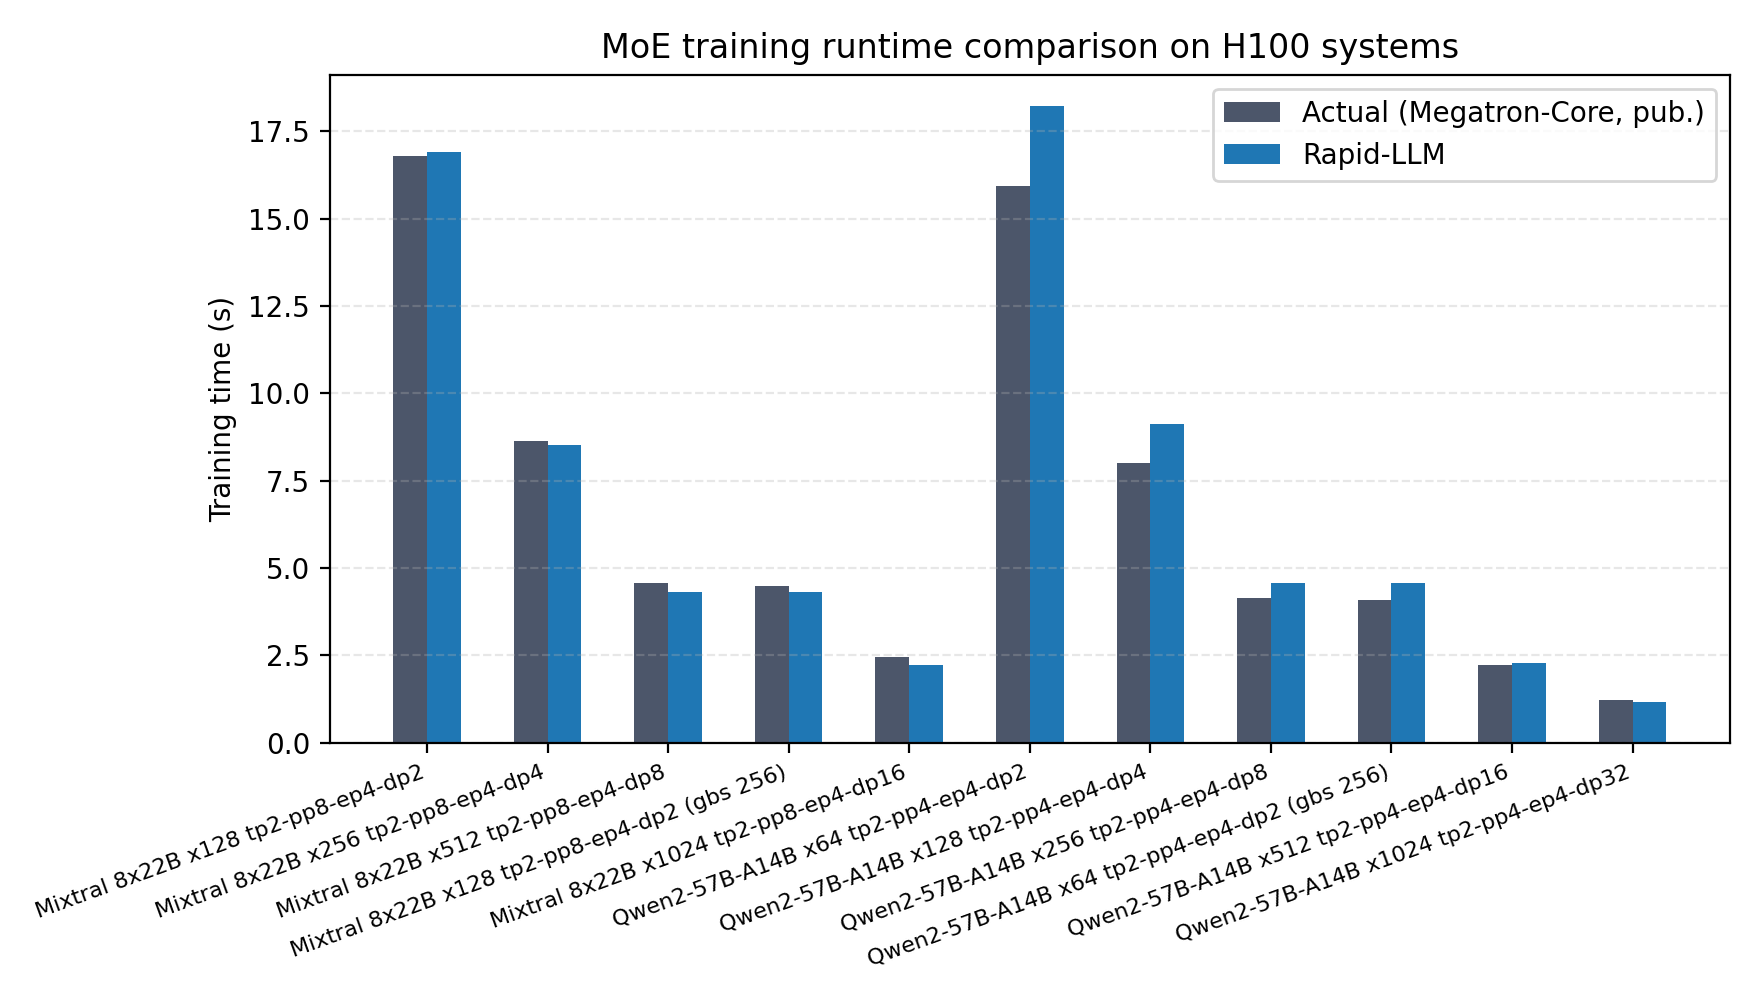
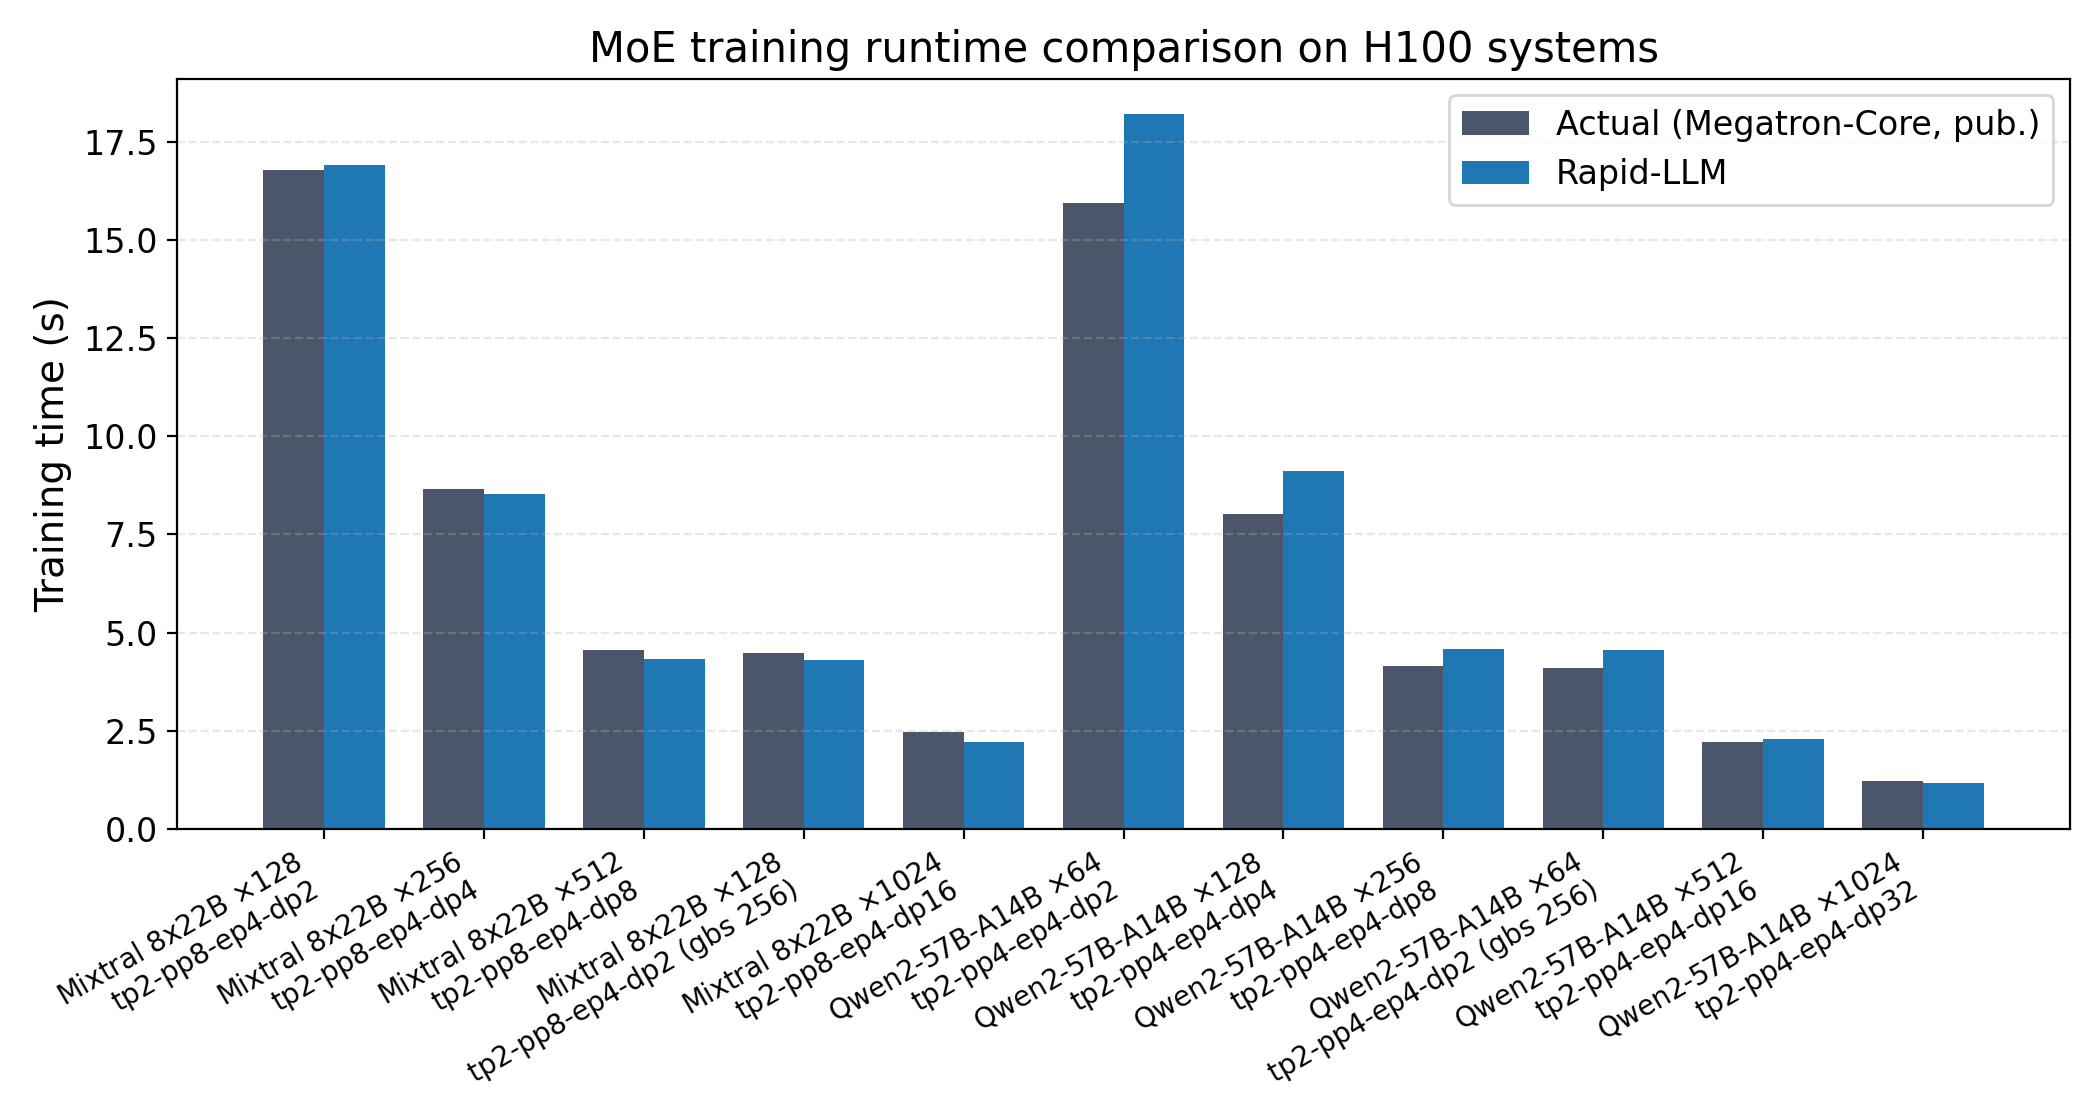
MoE train figure regenerated with print-size fonts (data-identical: cache c0.850_d0.80_n0.80 + published-MFU refs, MAPE 7.06%)

diff --git a/validation_scripts/plot_moe_train_comparison.py b/validation_scripts/plot_moe_train_comparison.py
@@ -1,0 +1,77 @@
+#!/usr/bin/env python3
+"""MoE training validation figure: Actual (Megatron-Core, published) vs Rapid-LLM.
+
+Rapid-LLM values: canonical extended-roofline runs from
+device_testbench/H100_SXM5_opmodel/runs.json at factor key c0.850_d0.80_n0.80
+(H100 residual compute 0.85, global merged mem/net utilization 0.80, 6us launch).
+
+Reference times derive from the published MFU of the MCore (non-folding) rows of
+arXiv:2504.14960 (Tables 1/3/4) via
+    t_ref = FLOPs_per_token * GBS * seq / (N_gpus * 989.5e12 * MFU)
+with seq_len 4096 and exact FLOPs/token constants (3x forward):
+Mixtral 8x22B 2.5067e11, Qwen2-57B-A14B 8.7158e10.
+Published MFU: Mixtral 49.4/48.0/45.5/42.3% at 128/256/512/1024 GPUs (GBS 1024)
+and 46.3% at 128 GPUs (GBS 256); Qwen2 36.2/36.0/34.8/32.5/29.8% at
+64/128/256/512/1024 GPUs (GBS 1024) and 35.3% at 64 GPUs (GBS 256).
+"""
+import json
+from pathlib import Path
+
+import matplotlib
+
+matplotlib.use("Agg")
+import matplotlib.pyplot as plt
+
+SCRIPT_DIR = Path(__file__).resolve().parent
+CACHE = SCRIPT_DIR / "device_testbench" / "H100_SXM5_opmodel" / "runs.json"
+FACTOR_KEY = "c0.850_d0.80_n0.80"
+OUT = SCRIPT_DIR.parent / "output" / "validation" / "paper" / "moe_train_comparison.png"
+
+# (cache case key, display label, t_ref_s)
+CASES = [
+    ("megatron:mixtral8x22b_g128", "Mixtral 8x22B $\\times$128\ntp2-pp8-ep4-dp2", 16.804),
+    ("megatron:mixtral8x22b_g256", "Mixtral 8x22B $\\times$256\ntp2-pp8-ep4-dp4", 8.647),
+    ("megatron:mixtral8x22b_g512", "Mixtral 8x22B $\\times$512\ntp2-pp8-ep4-dp8", 4.561),
+    ("megatron:mixtral8x22b_g128_gbs256", "Mixtral 8x22B $\\times$128\ntp2-pp8-ep4-dp2 (gbs 256)", 4.482),
+    ("megatron:mixtral8x22b_g1024", "Mixtral 8x22B $\\times$1024\ntp2-pp8-ep4-dp16", 2.453),
+    ("megatron:qwen2_57b_a14b_g64", "Qwen2-57B-A14B $\\times$64\ntp2-pp4-ep4-dp2", 15.947),
+    ("megatron:qwen2_57b_a14b_g128", "Qwen2-57B-A14B $\\times$128\ntp2-pp4-ep4-dp4", 8.018),
+    ("megatron:qwen2_57b_a14b_g256", "Qwen2-57B-A14B $\\times$256\ntp2-pp4-ep4-dp8", 4.147),
+    ("megatron:qwen2_57b_a14b_g64_gbs256", "Qwen2-57B-A14B $\\times$64\ntp2-pp4-ep4-dp2 (gbs 256)", 4.088),
+    ("megatron:qwen2_57b_a14b_g512", "Qwen2-57B-A14B $\\times$512\ntp2-pp4-ep4-dp16", 2.220),
+    ("megatron:qwen2_57b_a14b_g1024", "Qwen2-57B-A14B $\\times$1024\ntp2-pp4-ep4-dp32", 1.211),
+]
+
+
+def main() -> None:
+    cache = json.loads(CACHE.read_text())
+    labels, refs, preds = [], [], []
+    for key, label, t_ref in CASES:
+        pred = cache[key][FACTOR_KEY]
+        labels.append(label)
+        refs.append(t_ref)
+        preds.append(float(pred))
+    errs = [abs(p - a) / a * 100 for a, p in zip(refs, preds)]
+    print(f"MAPE {sum(errs)/len(errs):.2f}%  worst {max(errs):.1f}%  ({len(errs)} rows)")
+
+    x = list(range(len(labels)))
+    width = 0.38
+    fig, ax = plt.subplots(figsize=(10.5, 5.6))
+    ax.bar([i - width / 2 for i in x], refs, width=width,
+           label="Actual (Megatron-Core, pub.)", color="#4c566a")
+    ax.bar([i + width / 2 for i in x], preds, width=width,
+           label="Rapid-LLM", color="#1f77b4")
+    ax.set_xticks(x)
+    ax.set_xticklabels(labels, rotation=30, ha="right", fontsize=10)
+    ax.tick_params(axis="y", labelsize=12)
+    ax.set_ylabel("Training time (s)", fontsize=14)
+    ax.set_title("MoE training runtime comparison on H100 systems", fontsize=15)
+    ax.legend(fontsize=12, loc="upper right")
+    ax.grid(axis="y", linestyle="--", alpha=0.3)
+    fig.tight_layout()
+    fig.savefig(OUT, dpi=200)
+    print(f"Saved {OUT}")
+
+
+if __name__ == "__main__":
+    main()
